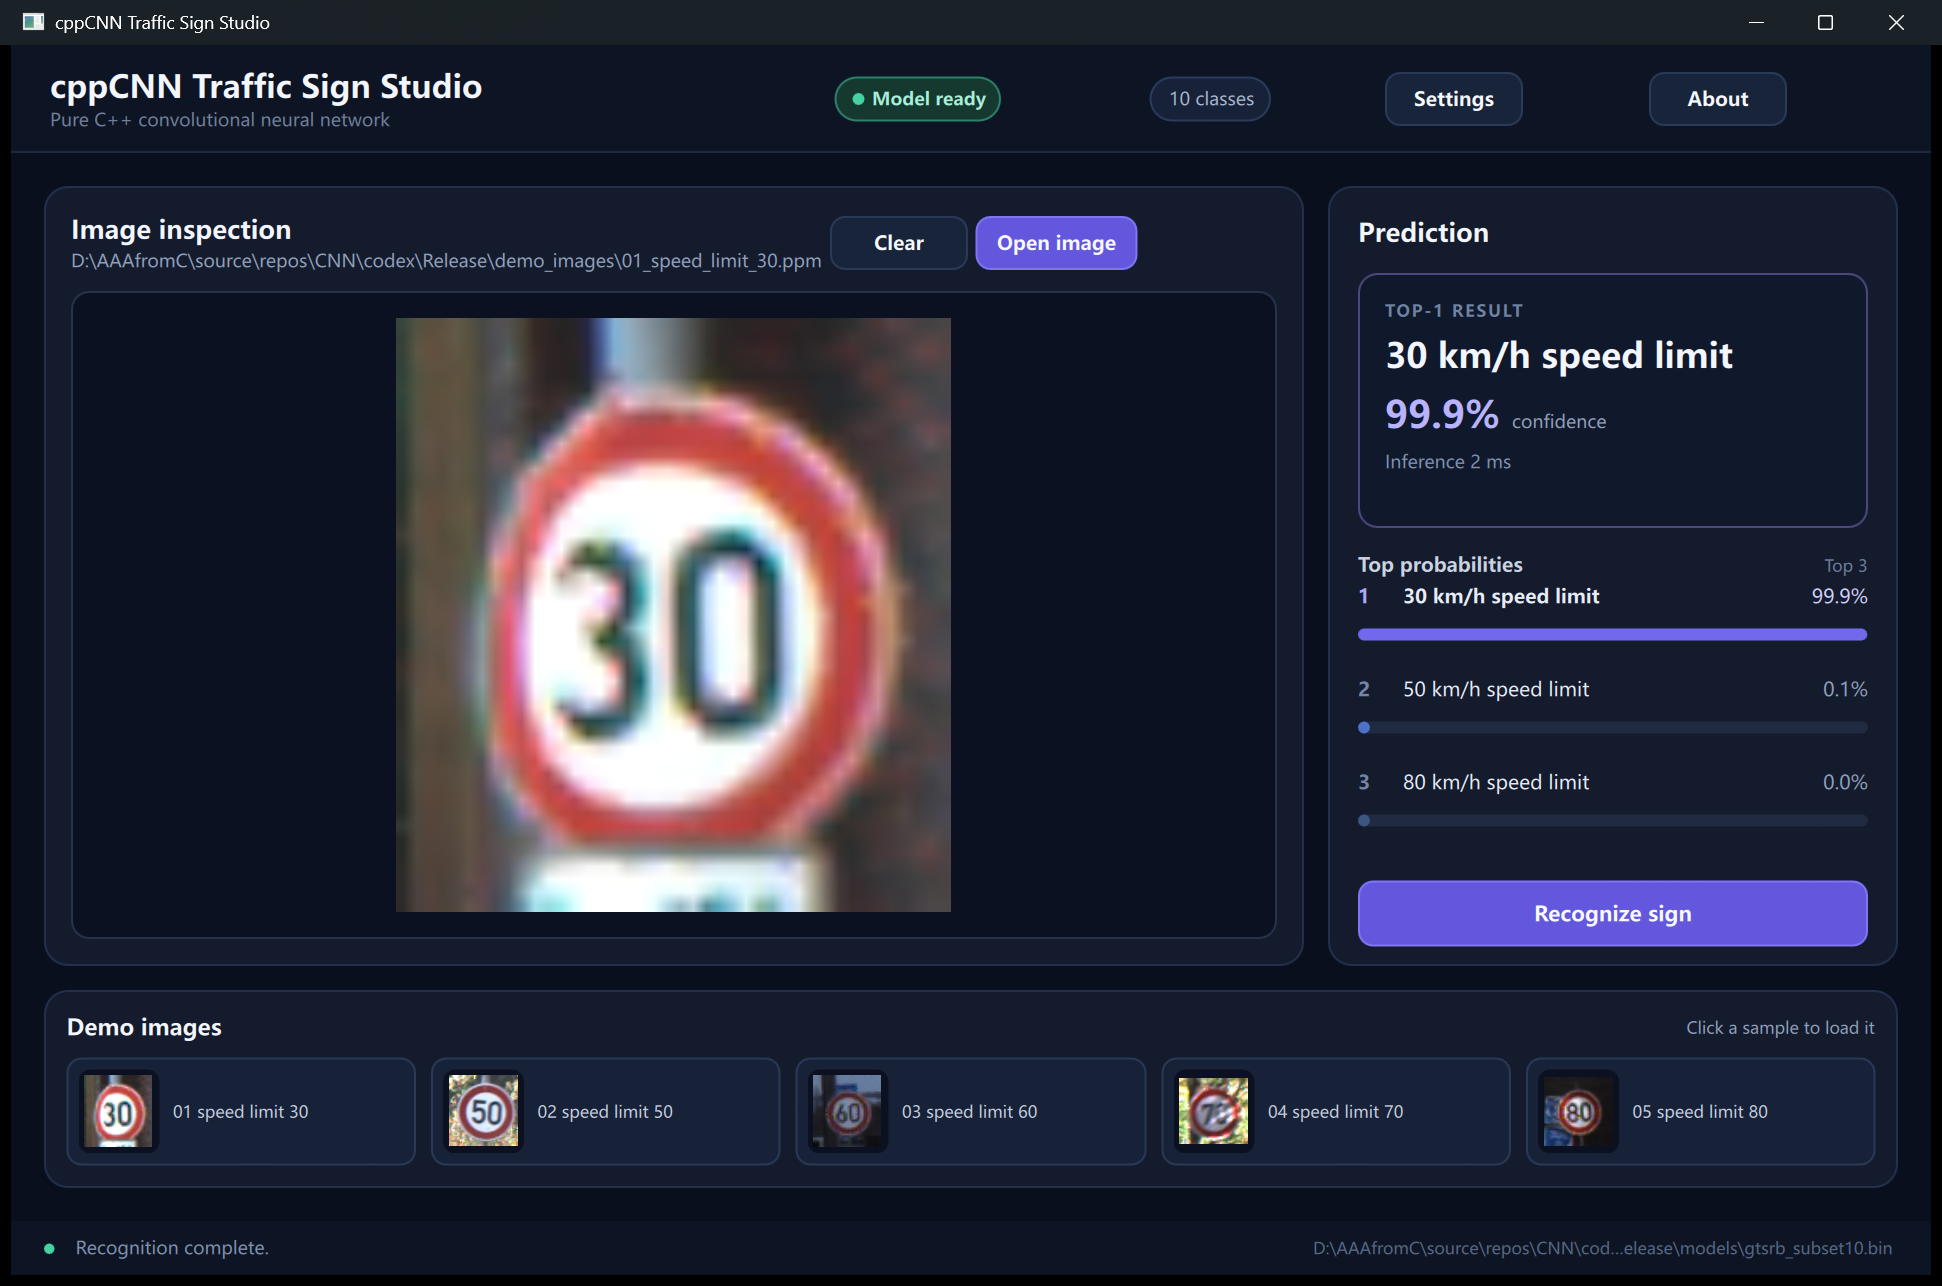
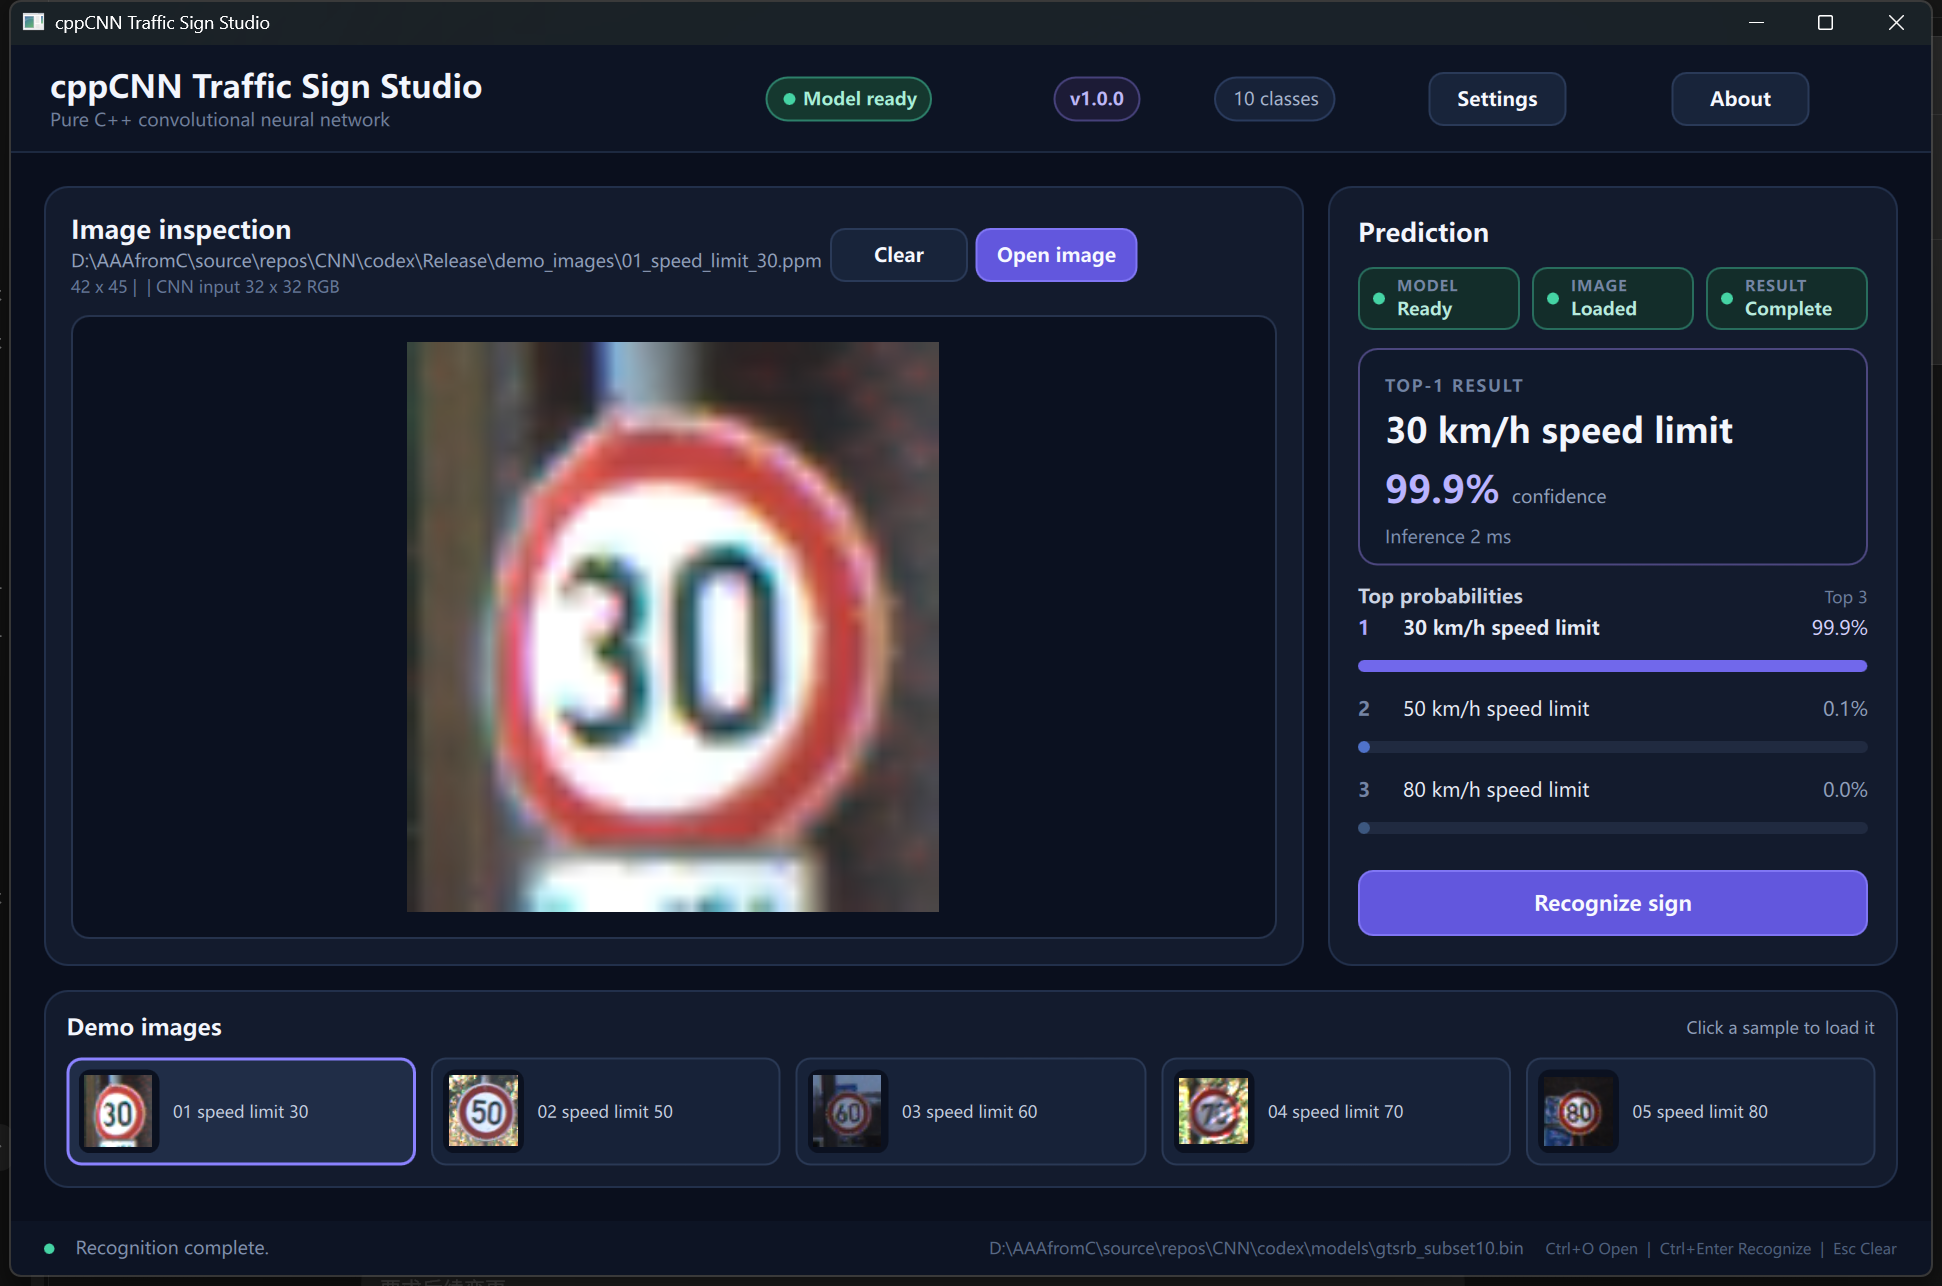
improve gui workflow and accessibility

diff --git a/codex/qml/Main.qml b/codex/qml/Main.qml
@@ -18,6 +18,25 @@ ApplicationWindow {
     readonly property color textSecondary: "#92A1BC"
     readonly property color accent: "#7168EB"
 
+    Shortcut {
+        sequence: StandardKey.Open
+        onActivated: imageDialog.open()
+    }
+    Shortcut {
+        sequence: "Ctrl+M"
+        onActivated: modelDialog.open()
+    }
+    Shortcut {
+        sequence: "Ctrl+Return"
+        enabled: appController.modelLoaded && appController.imageLoaded && !appController.busy
+        onActivated: appController.predict()
+    }
+    Shortcut {
+        sequence: "Escape"
+        enabled: appController.imageLoaded && !appController.busy
+        onActivated: appController.clearImage()
+    }
+
     FileDialog {
         id: imageDialog
         title: "Choose a traffic sign image"
@@ -42,7 +61,9 @@ ApplicationWindow {
 
         contentItem: Label {
             padding: 18
-            text: "A pure C++ LeNet-style CNN demonstration for GTSRB traffic-sign recognition.\n\nThe Tensor, convolution, pooling, activation, fully connected, softmax, loss, training, persistence, and inference code is implemented in this repository. Qt is used for the desktop interface and image decoding."
+            text: "cppCNN Traffic Sign Studio " + appController.applicationVersion
+                + "\n\nA pure C++ LeNet-style CNN demonstration for GTSRB traffic-sign recognition."
+                + "\n\nThe Tensor, convolution, pooling, activation, fully connected, softmax, loss, training, persistence, and inference code is implemented in this repository. Qt is used for the desktop interface and image decoding."
             color: window.textPrimary
             wrapMode: Text.WordWrap
             lineHeight: 1.3
@@ -67,7 +88,7 @@ ApplicationWindow {
             spacing: 12
 
             Label {
-                text: appController.modelDetails
+                text: "Application " + appController.applicationVersion + "\n" + appController.modelDetails
                 color: window.textPrimary
                 font.pixelSize: 14
                 wrapMode: Text.WordWrap
@@ -134,6 +155,23 @@ ApplicationWindow {
                 }
 
                 Rectangle {
+                    implicitWidth: versionLabel.implicitWidth + 22
+                    implicitHeight: 30
+                    radius: 15
+                    color: "#1C1B36"
+                    border.color: "#46417A"
+
+                    Label {
+                        id: versionLabel
+                        anchors.centerIn: parent
+                        text: "v" + appController.applicationVersion
+                        color: "#BDB7F8"
+                        font.pixelSize: 12
+                        font.weight: Font.DemiBold
+                    }
+                }
+
+                Rectangle {
                     implicitWidth: classLabel.implicitWidth + 24
                     implicitHeight: 30
                     radius: 15
@@ -152,11 +190,13 @@ ApplicationWindow {
                 AppButton {
                     text: "Settings"
                     compact: true
+                    toolTip: "View model paths and runtime details"
                     onClicked: settingsDialog.open()
                 }
                 AppButton {
                     text: "About"
                     compact: true
+                    toolTip: "About this pure C++ CNN project"
                     onClicked: aboutDialog.open()
                 }
             }
@@ -242,11 +282,18 @@ ApplicationWindow {
                                         elide: Text.ElideMiddle
                                         Layout.maximumWidth: 510
                                     }
+                                    Label {
+                                        visible: appController.imageLoaded
+                                        text: appController.imageDetails + " | CNN input 32 x 32 RGB"
+                                        color: "#687A9B"
+                                        font.pixelSize: 11
+                                    }
                                 }
 
                                 AppButton {
                                     text: "Clear"
                                     compact: true
+                                    toolTip: "Clear image (Esc)"
                                     enabled: appController.imageLoaded && !appController.busy
                                     onClicked: appController.clearImage()
                                 }
@@ -254,6 +301,7 @@ ApplicationWindow {
                                     text: "Open image"
                                     compact: true
                                     accent: true
+                                    toolTip: "Open image (Ctrl+O)"
                                     enabled: !appController.busy
                                     onClicked: imageDialog.open()
                                 }
@@ -313,7 +361,7 @@ ApplicationWindow {
                                     Label {
                                         anchors.horizontalCenter: parent.horizontalCenter
                                         width: parent.width
-                                        text: "Or use Open image to choose a local file. It will be resized to 32 × 32 and normalized for the CNN."
+                                        text: "Or use Open image to choose a local file. It will be resized to 32 x 32 and normalized for the CNN."
                                         color: window.textSecondary
                                         font.pixelSize: 13
                                         horizontalAlignment: Text.AlignHCenter
@@ -344,7 +392,7 @@ ApplicationWindow {
                         ColumnLayout {
                             anchors.fill: parent
                             anchors.margins: 20
-                            spacing: 16
+                            spacing: 12
 
                             Label {
                                 text: "Prediction"
@@ -353,9 +401,35 @@ ApplicationWindow {
                                 font.weight: Font.DemiBold
                             }
 
+                            RowLayout {
+                                Layout.fillWidth: true
+                                spacing: 8
+
+                                InfoChip {
+                                    Layout.fillWidth: true
+                                    title: "MODEL"
+                                    value: appController.modelLoaded ? "Ready" : "Missing"
+                                    complete: appController.modelLoaded
+                                }
+                                InfoChip {
+                                    Layout.fillWidth: true
+                                    title: "IMAGE"
+                                    value: appController.imageLoaded ? "Loaded" : "Waiting"
+                                    complete: appController.imageLoaded
+                                }
+                                InfoChip {
+                                    Layout.fillWidth: true
+                                    title: "RESULT"
+                                    value: appController.busy
+                                        ? "Running"
+                                        : (appController.confidence > 0 ? "Complete" : "Waiting")
+                                    complete: appController.confidence > 0
+                                }
+                            }
+
                             Rectangle {
                                 Layout.fillWidth: true
-                                Layout.preferredHeight: 170
+                                Layout.preferredHeight: 145
                                 radius: 13
                                 color: "#10192B"
                                 border.color: appController.confidence > 0 ? "#4C477F" : "#25344F"
@@ -471,6 +545,7 @@ ApplicationWindow {
                                 Layout.fillWidth: true
                                 text: appController.busy ? "Recognizing..." : "Recognize sign"
                                 accent: true
+                                toolTip: "Run CNN inference (Ctrl+Enter)"
                                 enabled: appController.modelLoaded && appController.imageLoaded && !appController.busy
                                 onClicked: appController.predict()
                             }
@@ -517,7 +592,10 @@ ApplicationWindow {
                                     Layout.minimumWidth: 130
                                     radius: 10
                                     color: sampleMouse.containsMouse ? "#202D47" : "#172238"
-                                    border.color: sampleMouse.containsMouse ? "#6257DD" : "#2A3955"
+                                    border.color: appController.imageUrl.toString() === modelData.url.toString()
+                                        ? "#8B82FF"
+                                        : (sampleMouse.containsMouse ? "#6257DD" : "#2A3955")
+                                    border.width: appController.imageUrl.toString() === modelData.url.toString() ? 2 : 1
 
                                     RowLayout {
                                         anchors.fill: parent
@@ -613,6 +691,12 @@ ApplicationWindow {
                     font.pixelSize: 11
                     elide: Text.ElideMiddle
                     Layout.maximumWidth: 390
+                }
+                Label {
+                    text: "Ctrl+O Open  |  Ctrl+Enter Recognize  |  Esc Clear"
+                    color: "#4F607C"
+                    font.pixelSize: 10
+                    visible: window.width >= 1250
                 }
             }
         }

diff --git a/codex/qml/components/InfoChip.qml b/codex/qml/components/InfoChip.qml
@@ -1,0 +1,52 @@
+import QtQuick
+import QtQuick.Controls
+
+Rectangle {
+    id: chip
+    property string title: ""
+    property string value: ""
+    property bool complete: false
+
+    implicitHeight: 42
+    radius: 10
+    color: complete ? "#132D2A" : "#172238"
+    border.color: complete ? "#286D5D" : "#2B3B59"
+
+    Row {
+        anchors.fill: parent
+        anchors.margins: 10
+        spacing: 8
+
+        Rectangle {
+            anchors.verticalCenter: parent.verticalCenter
+            width: 8
+            height: 8
+            radius: 4
+            color: chip.complete ? "#45D3A4" : "#657492"
+        }
+
+        Column {
+            anchors.verticalCenter: parent.verticalCenter
+            width: parent.width - 18
+            spacing: 1
+
+            Label {
+                width: parent.width
+                text: chip.title
+                color: "#7586A5"
+                font.pixelSize: 10
+                font.weight: Font.Bold
+                font.letterSpacing: 0.7
+                elide: Text.ElideRight
+            }
+            Label {
+                width: parent.width
+                text: chip.value
+                color: chip.complete ? "#B7EBDD" : "#A8B4C9"
+                font.pixelSize: 12
+                font.weight: Font.DemiBold
+                elide: Text.ElideRight
+            }
+        }
+    }
+}

diff --git a/codex/qml/components/AppButton.qml b/codex/qml/components/AppButton.qml
@@ -5,10 +5,17 @@ Button {
     id: control
     property bool accent: false
     property bool compact: false
+    property string toolTip: ""
 
     implicitHeight: compact ? 36 : 44
     implicitWidth: Math.max(compact ? 92 : 124, contentItem.implicitWidth + 28)
     hoverEnabled: true
+    focusPolicy: Qt.StrongFocus
+    Accessible.name: text
+
+    ToolTip.visible: hovered && toolTip.length > 0
+    ToolTip.text: toolTip
+    ToolTip.delay: 500
 
     contentItem: Label {
         text: control.text
@@ -30,7 +37,10 @@ Button {
                 return control.accent ? "#7065EA" : "#202D47"
             return control.accent ? "#6257DD" : "#18243A"
         }
-        border.color: control.accent ? "#8076F4" : "#2A3A58"
+        border.color: control.activeFocus
+            ? "#A8A1FF"
+            : (control.accent ? "#8076F4" : "#2A3A58")
+        border.width: control.activeFocus ? 2 : 1
 
         Behavior on color {
             ColorAnimation { duration: 120 }

diff --git a/codex/qml/components/ProbabilityBar.qml b/codex/qml/components/ProbabilityBar.qml
@@ -8,7 +8,7 @@ Item {
     property int classId: -1
     property real confidence: 0
 
-    implicitHeight: 58
+    implicitHeight: 50
 
     Row {
         id: heading